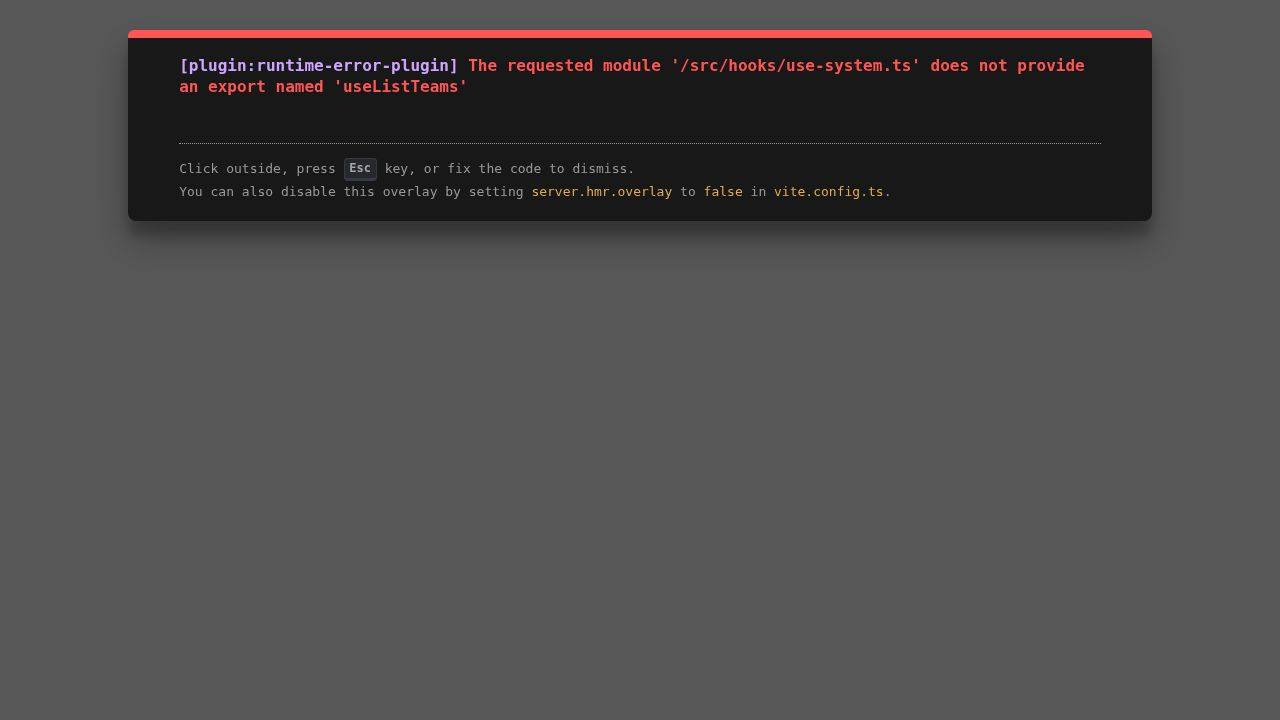
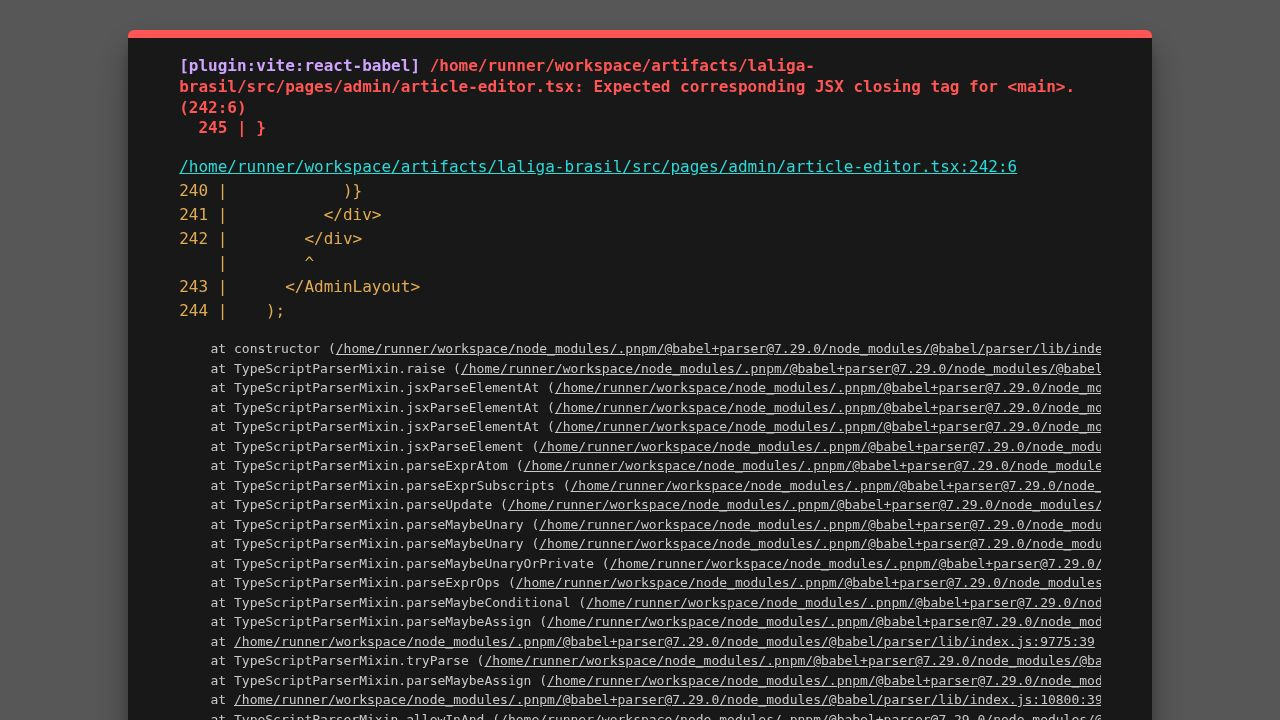
Integrate admin pages with a new persistent layout and navigation
Refactor admin pages (article-editor, articles-list, dashboard, import, team-editor, teams-list) to use the new AdminLayout component, consolidating header and navigation elements.

Replit-Commit-Author: Agent
Replit-Commit-Session-Id: 71d3a588-1211-4e2a-8813-32fcbb2e357e
Replit-Commit-Checkpoint-Type: full_checkpoint
Replit-Commit-Event-Id: 90674b7a-b892-4ba8-acf5-a5b9e195fac2
Replit-Commit-Screenshot-Url: https://storage.googleapis.com/screenshot-production-us-central1/50932da7-c878-41d6-9603-543cd42aefd7/71d3a588-1211-4e2a-8813-32fcbb2e357e/uz5oPoO
Replit-Helium-Checkpoint-Created: true

diff --git a/artifacts/laliga-brasil/src/pages/admin/dashboard.tsx b/artifacts/laliga-brasil/src/pages/admin/dashboard.tsx
@@ -1,56 +1,9 @@
 import React from "react";
-import { Link, useLocation } from "wouter";
+import { Link } from "wouter";
 import { useGetSiteStats } from "@/hooks/use-system";
-import { FileText, Users, Eye, Edit3, Settings, LogOut, CheckCircle, Clock } from "lucide-react";
+import { Eye, Edit3, CheckCircle, Clock } from "lucide-react";
 import { format, parseISO } from "date-fns";
-
-function AdminSidebar() {
-  const [location] = useLocation();
-  
-  const links = [
-    { href: "/dashboard", label: "Visão Geral", icon: <Eye className="w-5 h-5" /> },
-    { href: "/dashboard/artigos", label: "Artigos", icon: <FileText className="w-5 h-5" /> },
-    { href: "/dashboard/importar", label: "Importar Matérias", icon: <LogOut className="w-5 h-5 rotate-90" /> },
-    { href: "/dashboard/times", label: "Times", icon: <Users className="w-5 h-5" /> },
-  ];
-
-  return (
-    <aside className="w-64 bg-card border-r border-border hidden md:flex flex-col min-h-screen sticky top-0">
-      <div className="p-6 border-b border-border">
-        <Link href="/" className="flex items-center gap-2">
-          <div className="w-8 h-8 bg-primary rounded flex items-center justify-center text-white font-display font-black">
-            LL
-          </div>
-          <span className="font-display font-black text-xl tracking-tighter">
-            ADMIN
-          </span>
-        </Link>
-      </div>
-      <nav className="flex-1 p-4 space-y-1">
-        {links.map(link => {
-          const active = location === link.href || (link.href !== "/dashboard" && location.startsWith(link.href));
-          return (
-            <Link 
-              key={link.href} 
-              href={link.href}
-              className={`flex items-center gap-3 px-4 py-3 rounded-lg text-sm font-medium transition-colors ${
-                active ? "bg-primary/10 text-primary" : "text-muted-foreground hover:bg-white/5 hover:text-white"
-              }`}
-            >
-              {link.icon}
-              {link.label}
-            </Link>
-          );
-        })}
-      </nav>
-      <div className="p-4 border-t border-border">
-        <button className="flex items-center gap-3 px-4 py-3 w-full rounded-lg text-sm font-medium text-muted-foreground hover:bg-white/5 hover:text-white transition-colors">
-          <Settings className="w-5 h-5" /> Configurações
-        </button>
-      </div>
-    </aside>
-  );
-}
+import { AdminLayout } from "@/components/layout/AdminLayout";
 
 function StatCard({ title, value, icon, trend }: { title: string, value: number, icon: React.ReactNode, trend?: string }) {
   return (
@@ -69,9 +22,8 @@ export default function AdminDashboard() {
   const { data: stats, isLoading } = useGetSiteStats();
 
   return (
-    <div className="min-h-screen flex bg-background">
-      <AdminSidebar />
-      <main className="flex-1 p-8">
+    <AdminLayout>
+      <div className="container mx-auto px-4 sm:px-6 lg:px-8 py-8">
         <header className="flex justify-between items-center mb-8">
           <div>
             <h1 className="text-3xl font-display font-bold text-white">Visão Geral</h1>
@@ -140,7 +92,7 @@ export default function AdminDashboard() {
             </div>
           </div>
         ) : null}
-      </main>
-    </div>
+      </div>
+    </AdminLayout>
   );
 }

diff --git a/artifacts/laliga-brasil/src/pages/admin/teams-list.tsx b/artifacts/laliga-brasil/src/pages/admin/teams-list.tsx
@@ -1,11 +1,11 @@
 import React, { useState } from "react";
-import { Link, useLocation } from "wouter";
+import { Link } from "wouter";
 import { useAdminListTeams } from "@/hooks/use-teams";
 import { Shield, Edit, MapPin, Building2, Archive, Search, Trophy } from "lucide-react";
+import { AdminLayout } from "@/components/layout/AdminLayout";
 
 export default function AdminTeamsList() {
   const { data: teams, isLoading } = useAdminListTeams();
-  const [, setLocation] = useLocation();
   const [search, setSearch] = useState("");
   const [filter, setFilter] = useState<"all" | "active" | "archived">("active");
 
@@ -16,16 +16,8 @@ export default function AdminTeamsList() {
   });
 
   return (
-    <div className="min-h-screen bg-background text-foreground">
-      <header className="sticky top-0 z-10 bg-card border-b border-border py-4 px-6 flex items-center gap-4 shadow-lg">
-        <Link href="/dashboard" className="text-muted-foreground hover:text-white transition-colors text-sm">← Dashboard</Link>
-        <span className="text-muted-foreground">/</span>
-        <h1 className="text-xl font-bold uppercase tracking-tight flex items-center gap-2">
-          <Shield className="text-primary w-5 h-5" /> Clubes
-        </h1>
-      </header>
-
-      <main className="container mx-auto px-4 py-8 max-w-6xl">
+    <AdminLayout>
+      <div className="container mx-auto px-4 sm:px-6 lg:px-8 py-8">
         {/* Filters */}
         <div className="flex flex-col sm:flex-row gap-3 mb-8">
           <div className="relative flex-1 max-w-xs">
@@ -122,7 +114,7 @@ export default function AdminTeamsList() {
             <p>Nenhum clube encontrado.</p>
           </div>
         )}
-      </main>
-    </div>
+      </div>
+    </AdminLayout>
   );
 }

diff --git a/artifacts/laliga-brasil/src/pages/admin/team-editor.tsx b/artifacts/laliga-brasil/src/pages/admin/team-editor.tsx
@@ -1,11 +1,12 @@
 import React, { useState, useEffect } from "react";
-import { useRoute, Link, useLocation } from "wouter";
+import { useRoute, Link } from "wouter";
 import { useToast } from "@/hooks/use-toast";
 import {
   Shield, Save, Archive, ArchiveRestore, Plus, Trash2,
   ChevronLeft, MapPin, Building2, Calendar, Palette,
   Link as LinkIcon, Trophy, AlertTriangle, Check, Image
 } from "lucide-react";
+import { AdminLayout } from "@/components/layout/AdminLayout";
 
 const BASE = import.meta.env.BASE_URL.replace(/\/$/, "");
 
@@ -149,9 +150,10 @@ export default function AdminTeamEditor() {
   const totalTitles = team.titles.reduce((s, t) => s + (Number(t.count) || 0), 0);
 
   return (
-    <div className="min-h-screen bg-background text-foreground">
-      {/* Header */}
-      <header className="sticky top-0 z-20 bg-card border-b border-border px-6 py-3 flex items-center justify-between shadow-lg">
+    <AdminLayout>
+      <div className="min-h-full bg-background text-foreground">
+        {/* Header */}
+        <div className="sticky top-20 z-10 bg-card border-b border-border px-6 py-3 flex items-center justify-between shadow-lg">
         <div className="flex items-center gap-3">
           <Link href="/dashboard/times" className="text-muted-foreground hover:text-white transition-colors">
             <ChevronLeft className="w-5 h-5" />
@@ -188,9 +190,9 @@ export default function AdminTeamEditor() {
             Salvar
           </button>
         </div>
-      </header>
+        </div>
 
-      <div className="container mx-auto px-4 py-8 max-w-5xl">
+        <div className="container mx-auto px-4 py-8 max-w-5xl">
         <div className="grid grid-cols-1 lg:grid-cols-3 gap-8">
 
           {/* Left column — identity */}
@@ -443,6 +445,7 @@ export default function AdminTeamEditor() {
           </div>
         </div>
       )}
-    </div>
+      </div>
+    </AdminLayout>
   );
 }

diff --git a/artifacts/laliga-brasil/src/pages/admin/article-editor.tsx b/artifacts/laliga-brasil/src/pages/admin/article-editor.tsx
@@ -6,6 +6,7 @@ import { CustomDateTimePicker } from "@/components/ui/custom-datetime-picker";
 import { ArrowLeft, Save, Send, Image as ImageIcon } from "lucide-react";
 import { useToast } from "@/hooks/use-toast";
 import { CreateArticleRequestStatus, CreateArticleRequest } from "@workspace/api-client-react";
+import { AdminLayout } from "@/components/layout/AdminLayout";
 
 export default function AdminArticleEditor() {
   const [, setLocation] = useLocation();
@@ -89,9 +90,10 @@ export default function AdminArticleEditor() {
   if (isEditing && loadingArticle) return <div className="p-12 text-center text-white">Carregando editor...</div>;
 
   return (
-    <div className="min-h-screen bg-background text-foreground pb-20">
-      <header className="sticky top-0 z-10 bg-card border-b border-border py-4 px-6 flex justify-between items-center shadow-lg">
-        <div className="flex items-center gap-4">
+    <AdminLayout>
+      <div className="min-h-full bg-background text-foreground pb-20">
+        <div className="sticky top-0 z-10 bg-card border-b border-border py-4 px-6 flex justify-between items-center shadow-lg">
+          <div className="flex items-center gap-4">
           <button onClick={() => setLocation("/dashboard/artigos")} className="w-8 h-8 flex items-center justify-center rounded-full bg-muted hover:bg-primary hover:text-white transition-colors">
             <ArrowLeft className="w-4 h-4" />
           </button>
@@ -117,10 +119,10 @@ export default function AdminArticleEditor() {
           >
             <Send className="w-4 h-4" /> Publicar Agora
           </button>
+          </div>
         </div>
-      </header>
 
-      <main className="container mx-auto px-4 max-w-6xl mt-8 grid grid-cols-1 lg:grid-cols-3 gap-8">
+        <main className="container mx-auto px-4 max-w-6xl mt-8 grid grid-cols-1 lg:grid-cols-3 gap-8">
         <div className="lg:col-span-2 space-y-6">
           <div className="bg-card p-6 rounded-xl border border-border shadow-sm space-y-5">
             <div>
@@ -237,7 +239,7 @@ export default function AdminArticleEditor() {
              </div>
           )}
         </div>
-      </main>
-    </div>
+      </div>
+    </AdminLayout>
   );
 }

diff --git a/artifacts/laliga-brasil/src/pages/admin/articles-list.tsx b/artifacts/laliga-brasil/src/pages/admin/articles-list.tsx
@@ -1,9 +1,10 @@
 import React, { useState } from "react";
 import { Link } from "wouter";
 import { useAdminListArticles, useDeleteArticle } from "@/hooks/use-articles";
-import { Edit3, Search, Trash2, ExternalLink, Plus } from "lucide-react";
+import { Search, Plus } from "lucide-react";
 import { format, parseISO } from "date-fns";
 import { useToast } from "@/hooks/use-toast";
+import { AdminLayout } from "@/components/layout/AdminLayout";
 
 export default function AdminArticlesList() {
   const [search, setSearch] = useState("");
@@ -24,8 +25,8 @@ export default function AdminArticlesList() {
   };
 
   return (
-    <div className="min-h-screen flex bg-background">
-      <main className="flex-1 p-8">
+    <AdminLayout>
+      <div className="container mx-auto px-4 sm:px-6 lg:px-8 py-8">
         <header className="flex justify-between items-center mb-8">
           <div>
             <div className="flex items-center gap-2 text-sm text-muted-foreground mb-2">
@@ -115,7 +116,7 @@ export default function AdminArticlesList() {
             </div>
           )}
         </div>
-      </main>
-    </div>
+      </div>
+    </AdminLayout>
   );
 }

diff --git a/artifacts/laliga-brasil/src/pages/admin/import.tsx b/artifacts/laliga-brasil/src/pages/admin/import.tsx
@@ -4,6 +4,7 @@ import { useListSources, useFetchFromSource, useTranslateArticle } from "@/hooks
 import { useCreateArticle } from "@/hooks/use-articles";
 import { DownloadCloud, Globe, Languages, Plus, Loader2 } from "lucide-react";
 import { useToast } from "@/hooks/use-toast";
+import { AdminLayout } from "@/components/layout/AdminLayout";
 
 export default function AdminImport() {
   const { data: sources, isLoading: loadingSources } = useListSources();
@@ -182,7 +183,7 @@ export default function AdminImport() {
             </div>
           </div>
         </div>
-      </main>
+      </AdminLayout>
     </div>
   );
 }